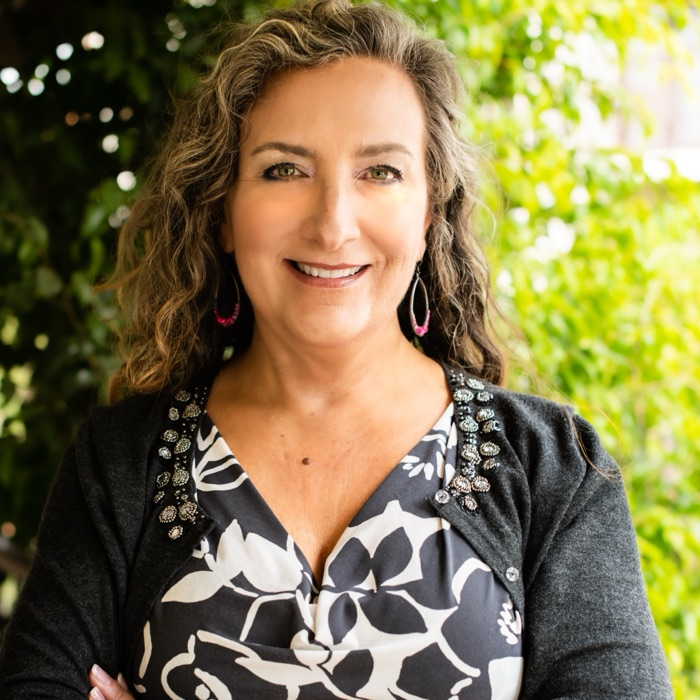
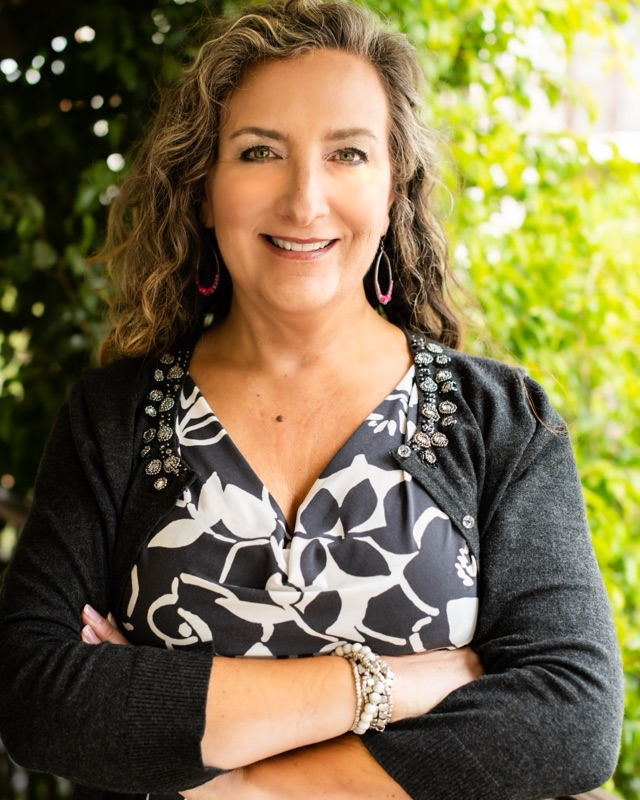
Marie Borders STAGE: taller (4:5) About headshot frame
Change .headshot aspect-ratio 1/1 -> 4/5 so the portrait fits without
cropping her tightly; swap in a matching 640x800 portrait crop of the
same raw photo (head down to crossed arms). Cache-bust src with ?v=2.

diff --git a/STAGE/about.html b/STAGE/about.html
@@ -57,7 +57,7 @@
       <div class="about-grid">
         <div class="headshot">
           <img data-content="headshot"
-               src="assets/images/marie-headshot-2022.jpg"
+               src="assets/images/marie-headshot-2022.jpg?v=2"
                alt="Marie Borders"
                loading="lazy"
                onerror="this.onerror=null;this.src='assets/images/placeholder-headshot.svg';">

diff --git a/STAGE/assets/css/site.css b/STAGE/assets/css/site.css
@@ -592,7 +592,7 @@ p { margin-bottom: var(--s4); }
   background: var(--paper-deep);
   border-radius: var(--radius);
   overflow: hidden;
-  aspect-ratio: 1 / 1;
+  aspect-ratio: 4 / 5;
   max-width: 320px;
   margin: 0 auto;
 }

diff --git a/STAGE/cms.html b/STAGE/cms.html
@@ -1062,7 +1062,7 @@
         <h3>Headshot</h3>
         <div class="headshot-row">
           <div class="headshot-row__thumb">
-            <img id="about-headshot-preview" src="assets/images/marie-headshot-2022.jpg" alt="Current headshot">
+            <img id="about-headshot-preview" src="assets/images/marie-headshot-2022.jpg?v=2" alt="Current headshot">
           </div>
           <div>
             <input type="file" id="about-headshot-input" accept="image/jpeg,image/png,image/webp,image/avif" style="display:none;">